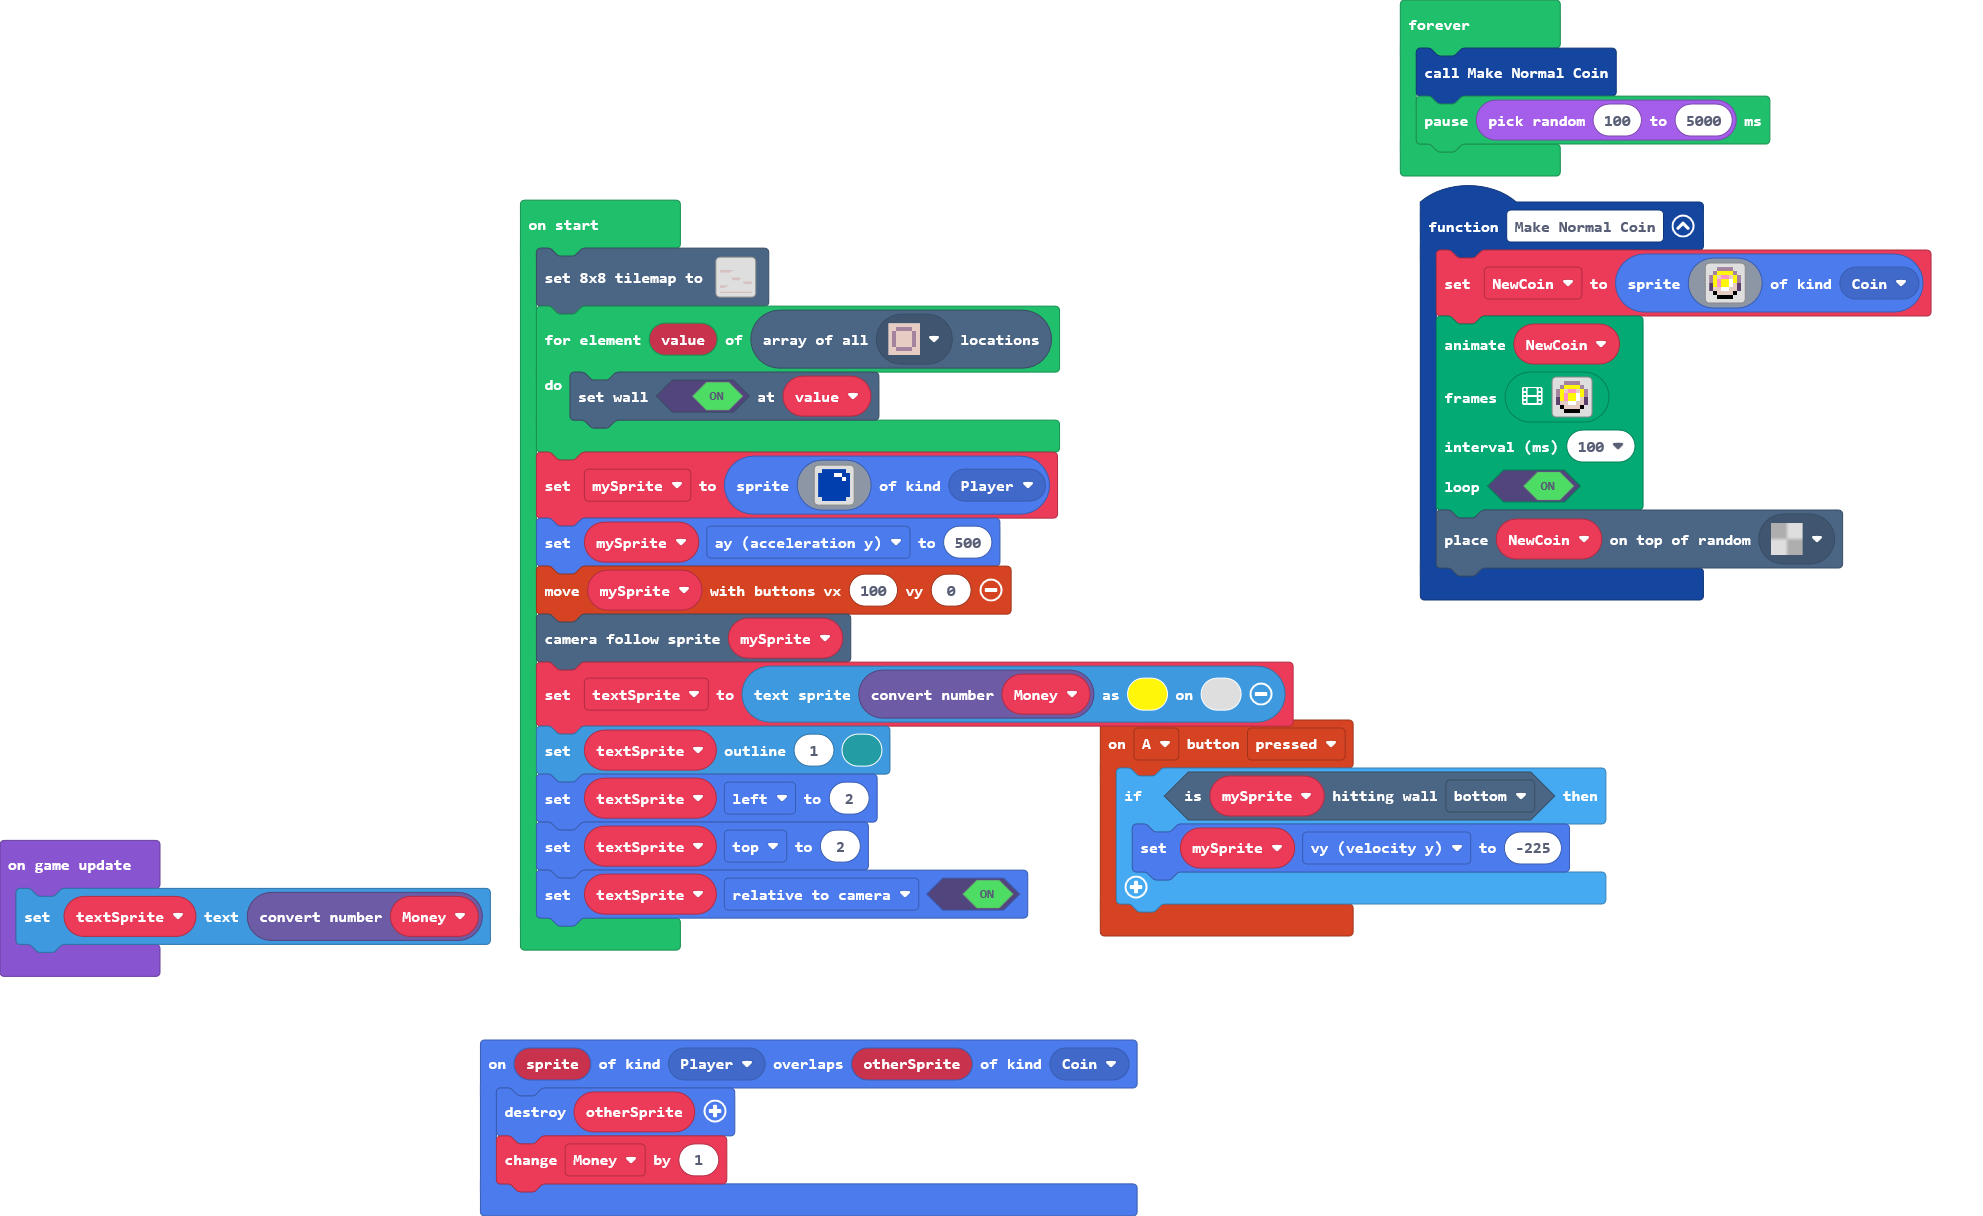
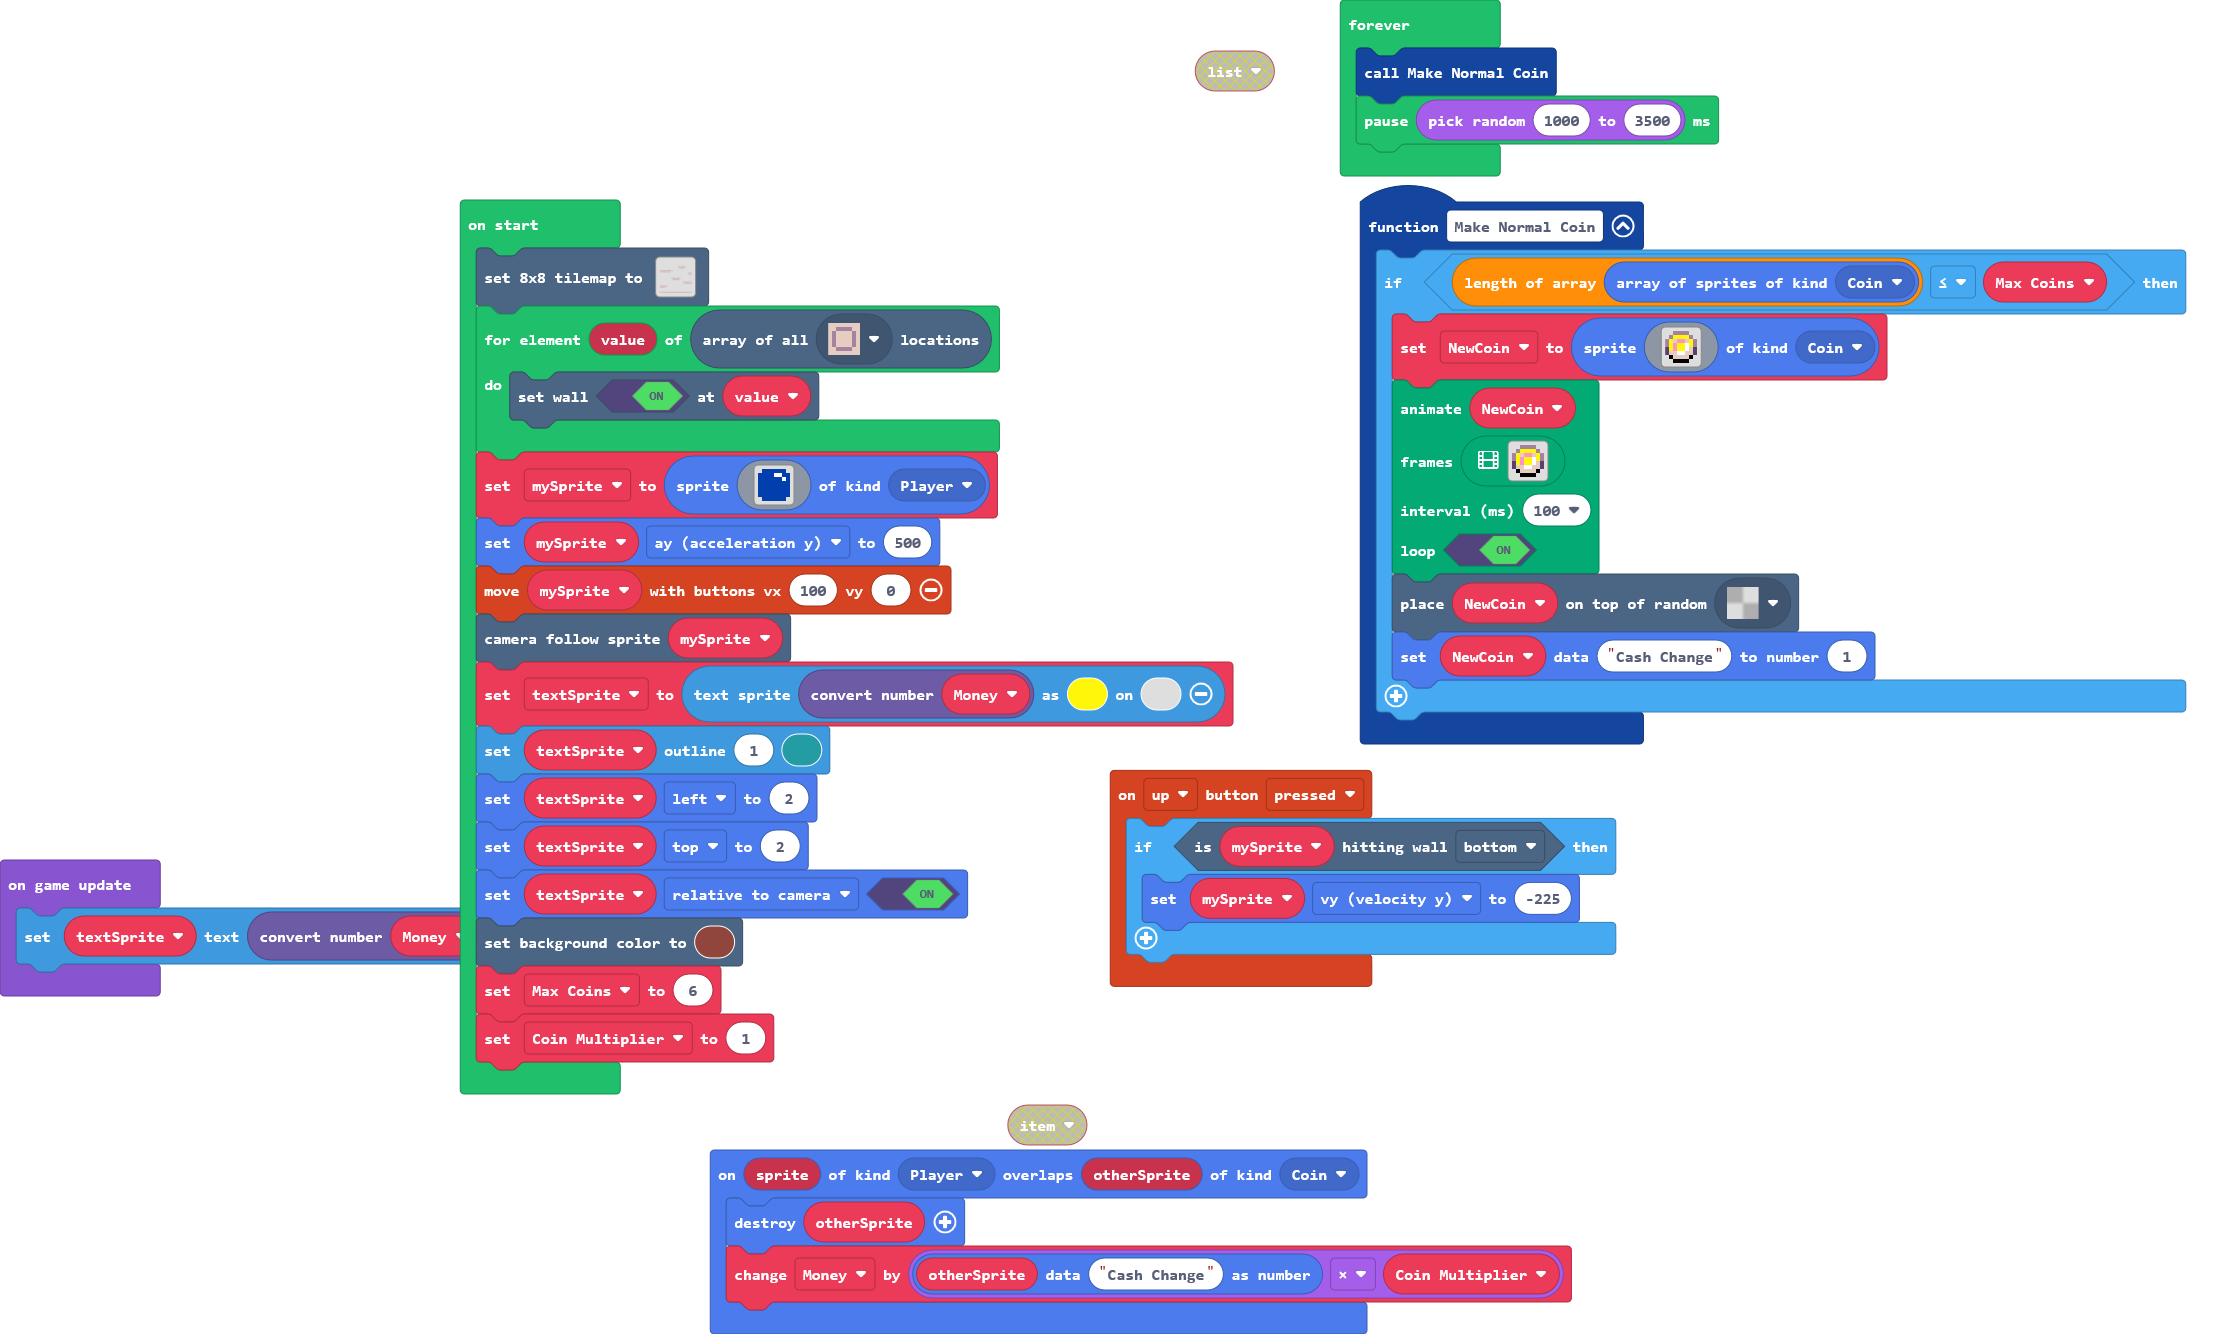
Update pxt.json, main.blocks, main.ts, tilemap.g.jres, tilemap.g.ts

diff --git a/main.ts b/main.ts
@@ -1,89 +1,94 @@
 namespace SpriteKind {
     export const Coin = SpriteKind.create()
 }
-sprites.onOverlap(SpriteKind.Player, SpriteKind.Coin, function (sprite, otherSprite) {
-    otherSprite.destroy()
-    Money += 1
-})
-controller.A.onEvent(ControllerButtonEvent.Pressed, function () {
+controller.up.onEvent(ControllerButtonEvent.Pressed, function () {
     if (mySprite.isHittingTile(CollisionDirection.Bottom)) {
         mySprite.vy = -225
     }
 })
+sprites.onOverlap(SpriteKind.Player, SpriteKind.Coin, function (sprite, otherSprite) {
+    otherSprite.destroy()
+    Money += sprites.readDataNumber(otherSprite, "Cash Change") * Coin_Multiplier
+})
 function Make_Normal_Coin () {
-    NewCoin = sprites.create(img`
-        . . b b b b . . 
-        . b 5 5 5 5 b . 
-        b 5 d 3 3 d 5 b 
-        b 5 3 5 5 1 5 b 
-        c 5 3 5 5 1 d c 
-        c d d 1 1 d d c 
-        . f d d d d f . 
-        . . f f f f . . 
-        `, SpriteKind.Coin)
-    animation.runImageAnimation(
-    NewCoin,
-    [img`
-        . . b b b b . . 
-        . b 5 5 5 5 b . 
-        b 5 d 3 3 d 5 b 
-        b 5 3 5 5 1 5 b 
-        c 5 3 5 5 1 d c 
-        c d d 1 1 d d c 
-        . f d d d d f . 
-        . . f f f f . . 
-        `,img`
-        . . b b b . . . 
-        . b 5 5 5 b . . 
-        b 5 d 3 d 5 b . 
-        b 5 3 5 1 5 b . 
-        c 5 3 5 1 d c . 
-        c 5 d 1 d d c . 
-        . f d d d f . . 
-        . . f f f . . . 
-        `,img`
-        . . . b b . . . 
-        . . b 5 5 b . . 
-        . b 5 d 1 5 b . 
-        . b 5 3 1 5 b . 
-        . c 5 3 1 d c . 
-        . c 5 1 d d c . 
-        . . f d d f . . 
-        . . . f f . . . 
-        `,img`
-        . . . b b . . . 
-        . . b 5 5 b . . 
-        . . b 1 1 b . . 
-        . . b 5 5 b . . 
-        . . b d d b . . 
-        . . c d d c . . 
-        . . c 3 3 c . . 
-        . . . f f . . . 
-        `,img`
-        . . . b b . . . 
-        . . b 5 5 b . . 
-        . b 5 1 d 5 b . 
-        . b 5 1 3 5 b . 
-        . c d 1 3 5 c . 
-        . c d d 1 5 c . 
-        . . f d d f . . 
-        . . . f f . . . 
-        `,img`
-        . . . b b b . . 
-        . . b 5 5 5 b . 
-        . b 5 d 3 d 5 b 
-        . b 5 1 5 3 5 b 
-        . c d 1 5 3 5 c 
-        . c d d 1 d 5 c 
-        . . f d d d f . 
-        . . . f f f . . 
-        `],
-    100,
-    true
-    )
-    tiles.placeOnRandomTile(NewCoin, assets.tile`transparency8`)
+    if (sprites.allOfKind(SpriteKind.Coin).length <= Max_Coins) {
+        NewCoin = sprites.create(img`
+            . . b b b b . . 
+            . b 5 5 5 5 b . 
+            b 5 d 3 3 d 5 b 
+            b 5 3 5 5 1 5 b 
+            c 5 3 5 5 1 d c 
+            c d d 1 1 d d c 
+            . f d d d d f . 
+            . . f f f f . . 
+            `, SpriteKind.Coin)
+        animation.runImageAnimation(
+        NewCoin,
+        [img`
+            . . b b b b . . 
+            . b 5 5 5 5 b . 
+            b 5 d 3 3 d 5 b 
+            b 5 3 5 5 1 5 b 
+            c 5 3 5 5 1 d c 
+            c d d 1 1 d d c 
+            . f d d d d f . 
+            . . f f f f . . 
+            `,img`
+            . . b b b . . . 
+            . b 5 5 5 b . . 
+            b 5 d 3 d 5 b . 
+            b 5 3 5 1 5 b . 
+            c 5 3 5 1 d c . 
+            c 5 d 1 d d c . 
+            . f d d d f . . 
+            . . f f f . . . 
+            `,img`
+            . . . b b . . . 
+            . . b 5 5 b . . 
+            . b 5 d 1 5 b . 
+            . b 5 3 1 5 b . 
+            . c 5 3 1 d c . 
+            . c 5 1 d d c . 
+            . . f d d f . . 
+            . . . f f . . . 
+            `,img`
+            . . . b b . . . 
+            . . b 5 5 b . . 
+            . . b 1 1 b . . 
+            . . b 5 5 b . . 
+            . . b d d b . . 
+            . . c d d c . . 
+            . . c 3 3 c . . 
+            . . . f f . . . 
+            `,img`
+            . . . b b . . . 
+            . . b 5 5 b . . 
+            . b 5 1 d 5 b . 
+            . b 5 1 3 5 b . 
+            . c d 1 3 5 c . 
+            . c d d 1 5 c . 
+            . . f d d f . . 
+            . . . f f . . . 
+            `,img`
+            . . . b b b . . 
+            . . b 5 5 5 b . 
+            . b 5 d 3 d 5 b 
+            . b 5 1 5 3 5 b 
+            . c d 1 5 3 5 c 
+            . c d d 1 d 5 c 
+            . . f d d d f . 
+            . . . f f f . . 
+            `],
+        100,
+        true
+        )
+        tiles.placeOnRandomTile(NewCoin, assets.tile`transparency8`)
+        sprites.setDataNumber(NewCoin, "Cash Change", 1)
+    }
 }
 let NewCoin: Sprite = null
+let Coin_Multiplier = 0
+let Max_Coins = 0
 let Money = 0
 let mySprite: Sprite = null
 tiles.setSmallTilemap(tilemap`level1`)
@@ -108,10 +113,13 @@ textSprite.setOutline(1, 6)
 textSprite.left = 2
 textSprite.top = 2
 textSprite.setFlag(SpriteFlag.RelativeToCamera, true)
+scene.setBackgroundColor(14)
+Max_Coins = 6
+Coin_Multiplier = 1
 game.onUpdate(function () {
     textSprite.setText(conv.ConvertNumber(Money))
 })
 forever(function () {
     Make_Normal_Coin()
-    pause(randint(100, 5000))
+    pause(randint(1000, 3500))
 })

diff --git a/tilemap.g.ts b/tilemap.g.ts
@@ -10,7 +10,7 @@ namespace myTiles {
     helpers._registerFactory("tilemap", function(name: string) {
         switch(helpers.stringTrim(name)) {
             case "level1":
-            case "level1":return tiles.createTilemap(hex`1900190000000000000000000000000000000000000000000000000000000000000000000000000000000000000000000000000000000000000000000000000000000000000000000000000000000000000000000000000000000000000000000000000000000000000000000000000000000000000000000000000000000000000000000000000000000000000000000000000000000000000000000000000000000000000000000000000000000000000000010101010101010101010000000000000000000000000000000101010101010101000000000000000000000000000000000000000000000000000000000000000000000000000000000000000000000000000000000000000000000000000000000000000000000000000000000000000000000000000000000000000000000000000000000000000000000000000000000000000000000000000000000000010101010101010000000000000000000000000000000000000001010101010000000000000000000000000000000000000000000000000000000000000000000000000000000000000000000000000000000000010101010101010000000000000000000000000000000000000001010101010100000000000000000000000000000000000000000000000000010101010101000000000000000000000000000000000000000101010100000000000000000000000000000000000000000000000000000000000000000000000000000000000000000000000000000000000000000000000000000000000000000000000000000000000000000000000000000000000000000000000001010101010101010101010101010101010101010101010101`, img`
+            case "level1":return tiles.createTilemap(hex`1900190000000000000000000000000000000000000000000000000000000000000000000000000000000000000000000000000000000000000000000000000000000000000000000000000000000000000000000000000000000000000000000000000000000000000000000000000000000000000001010101010100000000000000000000000000000000000000000101010100000000000000000000000000000000000000000000000000000000000000010101010101010101010000000000000000000000000000000101010101010101000000000000000000000000000000000000000000000000000000000000000000000000000000010101000000000000000000000000000000000000000000000001010000000000000000000000000000000000000000000000000000000000000000000000000000000000000000000000000000000000000000000000010101010101010000000000000000000000000000000000000001010101010000000000000000000000000000000000000000000000000000000000000000000000000000000000000000000000000000000000010101010101010000000000000000000000000000000000000001010101010100000000000000000000000000000000000000000000000000010101010101000000000000000000000000000000000000000101010100000000000000000000000000000000000000000000000000000000000000000000000000000000000000000000000000000000000000000000000000000000000000000000000000000000000000000000000000000000000000000000000001010101010101010101010101010101010101010101010101`, img`
 .........................
 .........................
 .........................
